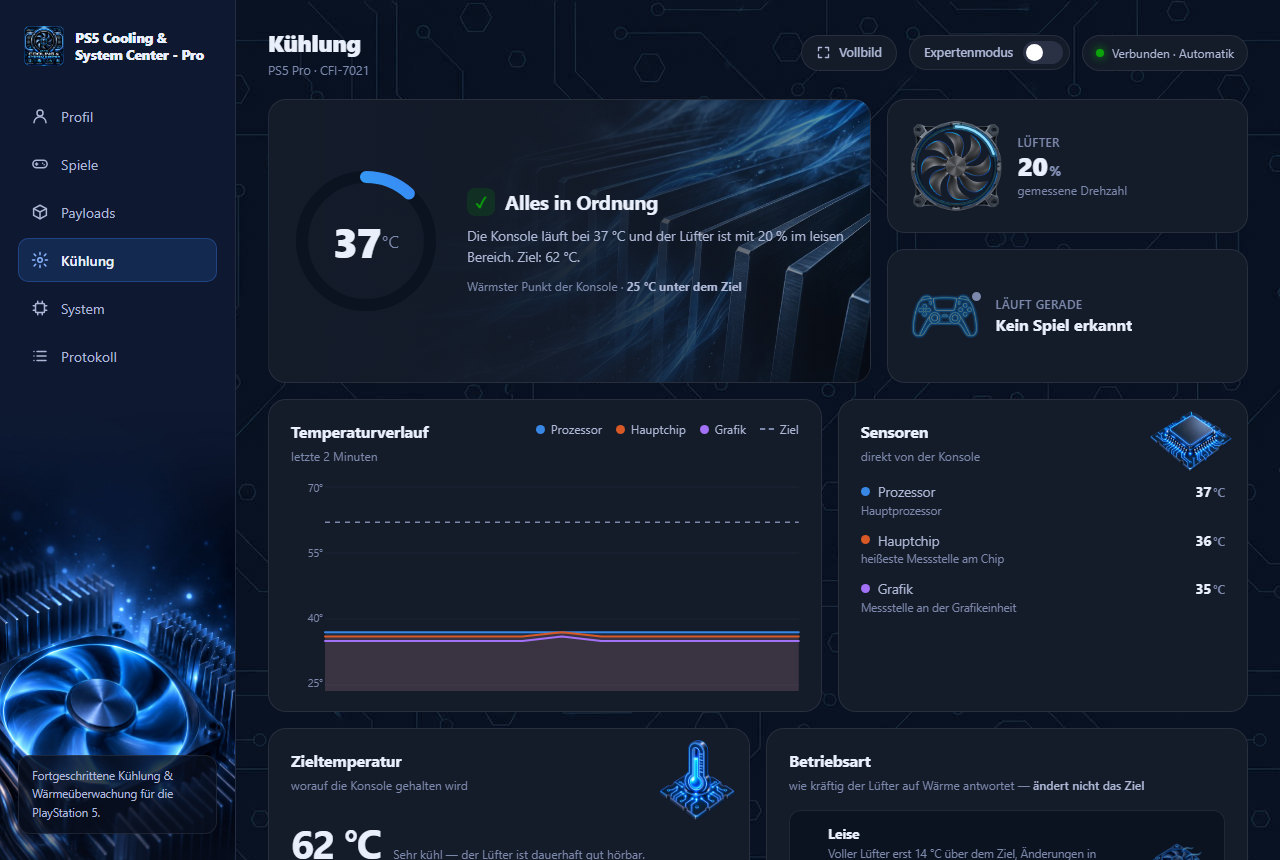
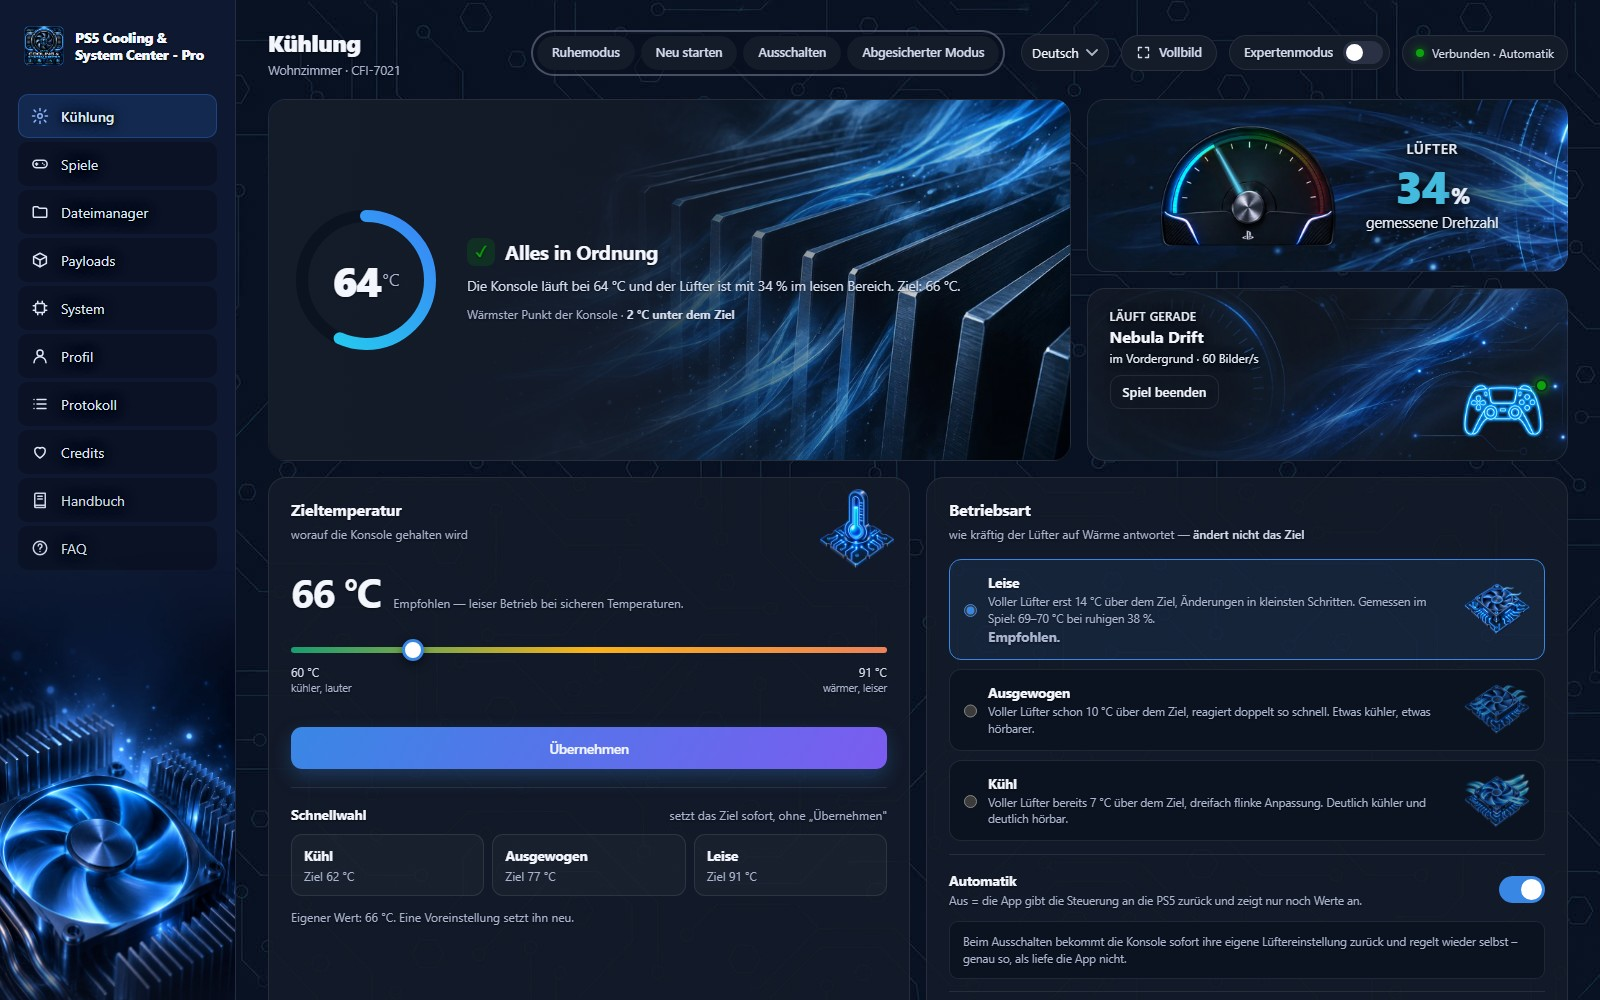
README: new top image of the cooling page (anonymous sample data)

diff --git a/README.ru.md b/README.ru.md
@@ -24,7 +24,7 @@ PS5 Cooling & System Center - Pro — это homebrew-payload (ELF) для PlayS
 Проект — преемник *PS5 Temperature Manager*; бэкенд (C) и интерфейс написаны заново.
 
 <p align="center">
-  <img src="docs/images/kuehlung.jpg" alt="Охлаждение: температура, вентилятор, история и датчики" width="860">
+  <img src="docs/images/kuehlung.jpg" alt="Охлаждение: температура, вентилятор, запущенная игра, целевая температура и режим" width="860">
 </p>
 
 <table>

diff --git a/README.fr.md b/README.fr.md
@@ -24,7 +24,7 @@ PS5 Cooling & System Center - Pro est un payload homebrew (ELF) pour une PlaySta
 Le projet succède au *PS5 Temperature Manager* ; le backend (C) et l’interface ont été entièrement réécrits.
 
 <p align="center">
-  <img src="docs/images/kuehlung.jpg" alt="Refroidissement : température, ventilateur, historique et capteurs" width="860">
+  <img src="docs/images/kuehlung.jpg" alt="Refroidissement : température, ventilateur, jeu en cours, température cible et mode" width="860">
 </p>
 
 <table>

diff --git a/README.es.md b/README.es.md
@@ -24,7 +24,7 @@ PS5 Cooling & System Center - Pro es un payload homebrew (ELF) para una PlayStat
 El proyecto es el sucesor de *PS5 Temperature Manager*; el backend (C) y la interfaz se han reescrito desde cero.
 
 <p align="center">
-  <img src="docs/images/kuehlung.jpg" alt="Refrigeración: temperatura, ventilador, historial y sensores" width="860">
+  <img src="docs/images/kuehlung.jpg" alt="Refrigeración: temperatura, ventilador, juego en marcha, temperatura objetivo y modo" width="860">
 </p>
 
 <table>

diff --git a/README.it.md b/README.it.md
@@ -24,7 +24,7 @@ PS5 Cooling & System Center - Pro è un payload homebrew (ELF) per una PlayStati
 Il progetto è il successore di *PS5 Temperature Manager*; backend (C) e interfaccia sono stati riscritti da zero.
 
 <p align="center">
-  <img src="docs/images/kuehlung.jpg" alt="Raffreddamento: temperatura, ventola, andamento e sensori" width="860">
+  <img src="docs/images/kuehlung.jpg" alt="Raffreddamento: temperatura, ventola, gioco in corso, temperatura obiettivo e modalità" width="860">
 </p>
 
 <table>

diff --git a/README.en.md b/README.en.md
@@ -24,7 +24,7 @@ PS5 Cooling & System Center - Pro is a homebrew payload (ELF) for a jailbroken P
 The project is the successor to *PS5 Temperature Manager*; the back end (C) and the interface have been rewritten from scratch.
 
 <p align="center">
-  <img src="docs/images/kuehlung.jpg" alt="Cooling: temperature, fan, history and sensors" width="860">
+  <img src="docs/images/kuehlung.jpg" alt="Cooling: temperature, fan, running game, target temperature and mode" width="860">
 </p>
 
 <table>

diff --git a/README.md b/README.md
@@ -24,7 +24,7 @@ PS5 Cooling & System Center - Pro ist ein Homebrew-Payload (ELF) für eine gejai
 Das Projekt ist der Nachfolger des *PS5 Temperature Manager*; Backend (C) und Oberfläche sind neu geschrieben.
 
 <p align="center">
-  <img src="docs/images/kuehlung.jpg" alt="Kühlung: Temperatur, Lüfter, Verlauf und Sensoren" width="860">
+  <img src="docs/images/kuehlung.jpg" alt="Kühlung: Temperatur, Lüfter, laufendes Spiel, Zieltemperatur und Betriebsart" width="860">
 </p>
 
 <table>
